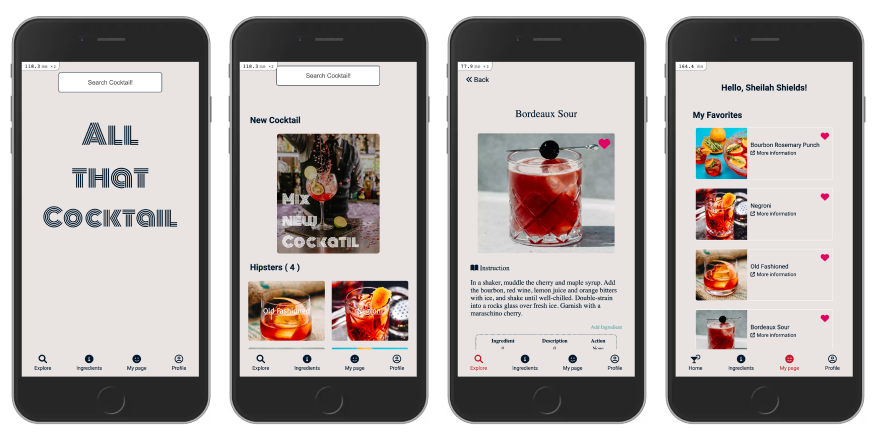
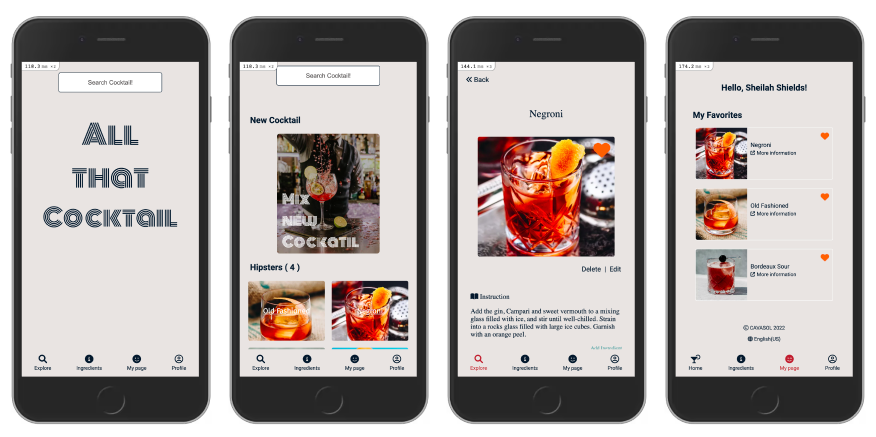
eh

diff --git a/app/assets/stylesheets/cocktails/_show.scss b/app/assets/stylesheets/cocktails/_show.scss
@@ -21,7 +21,7 @@
   margin: auto;
 
   .fav-ibtn {
-    font-size: 28px;
+    font-size: 40px;
     text-align: right;
     padding: 10px;
     color: white;
